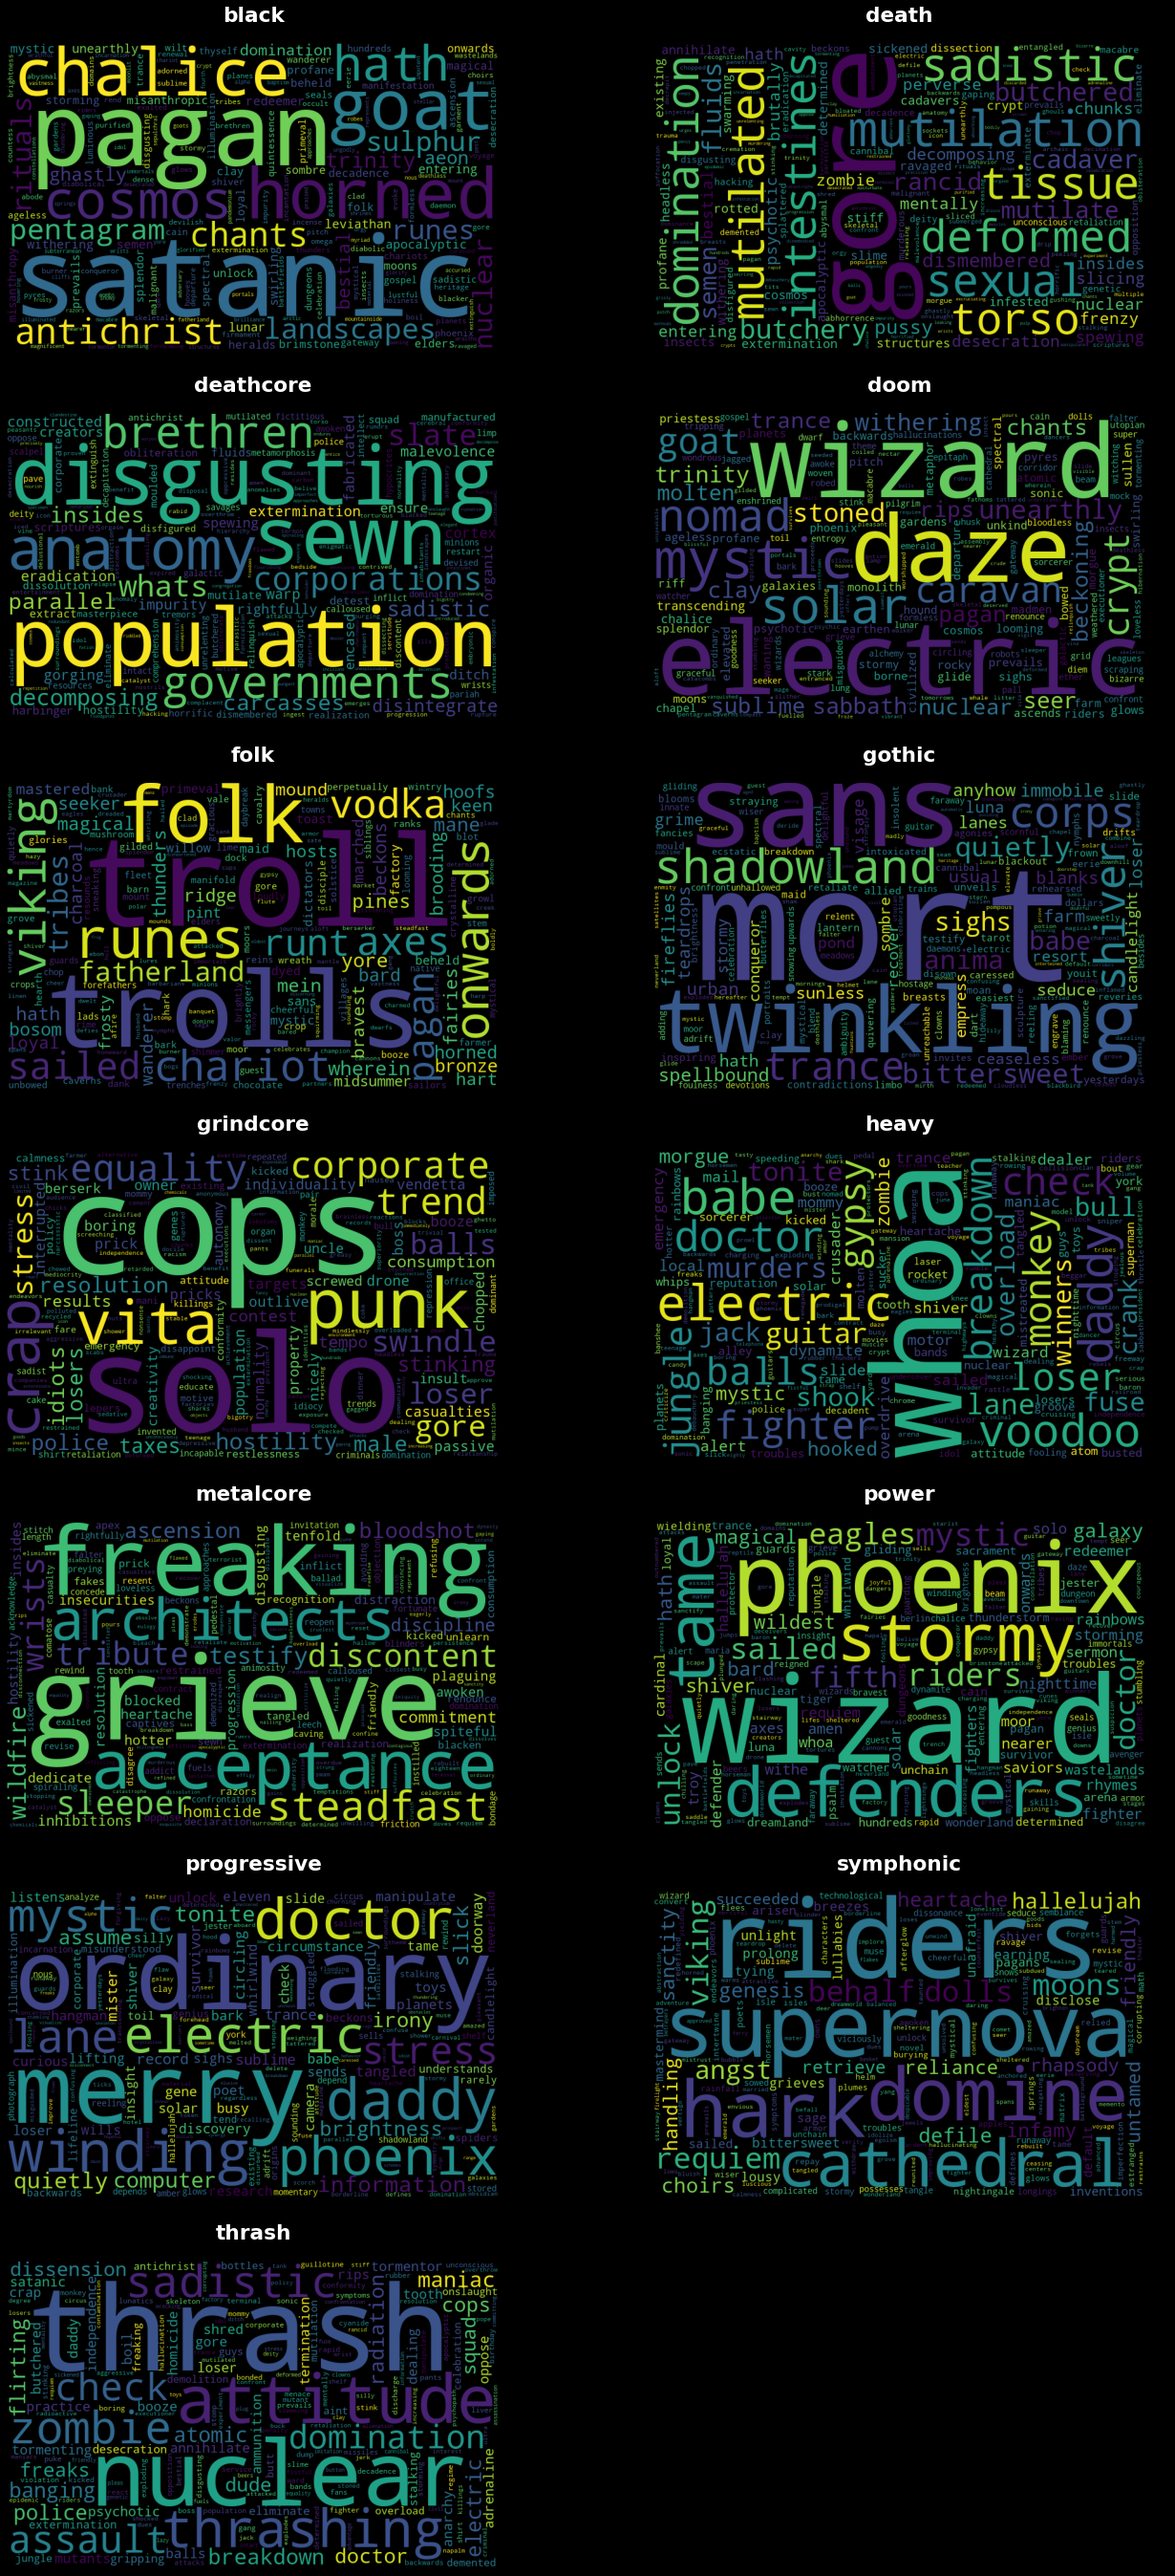
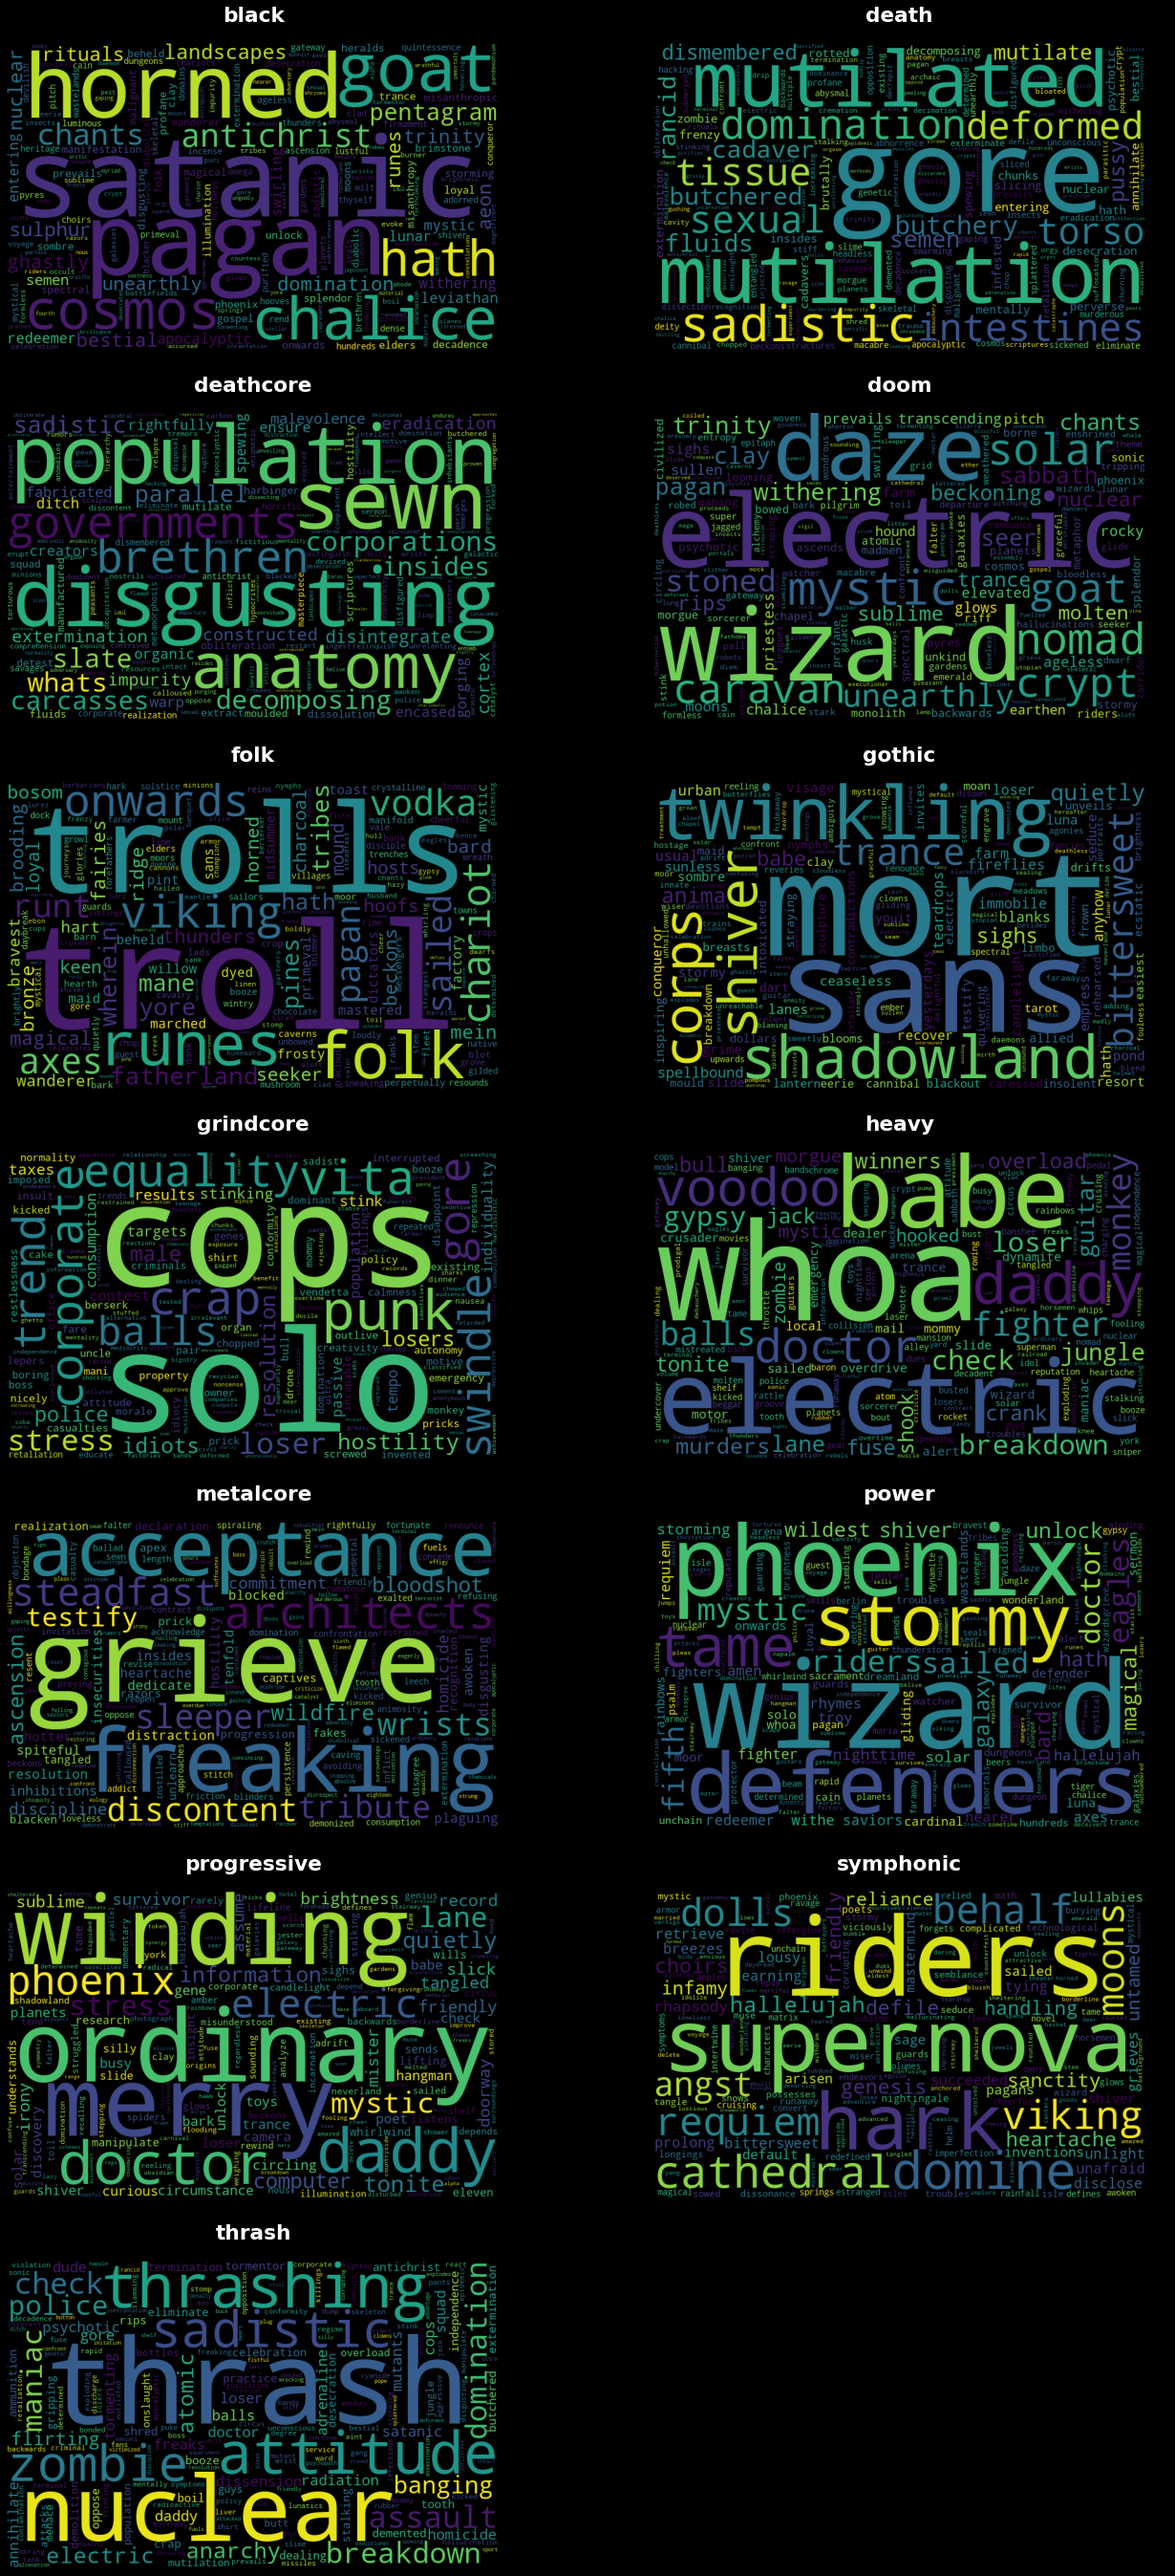
update lyrics-part-3 to include slayer

diff --git a/_posts/2022-03-22-lyrics-part-3.md b/_posts/2022-03-22-lyrics-part-3.md
@@ -31,7 +31,7 @@ black metal lyrics deal with topics like the occult, religion, and nature;
 death metal focuses on the obscene and horrifying;
 heavy metal revolves around themes more familiar to rock and pop;
 power metal adopts the vocabulary of fantasies and histories;
-and thrash metal sings of violence, war, and... beer?
+and thrash metal sings of violence and war.
 The full corpus word cloud shows themes common to all heavy metal genres.
 
 ## Imports
